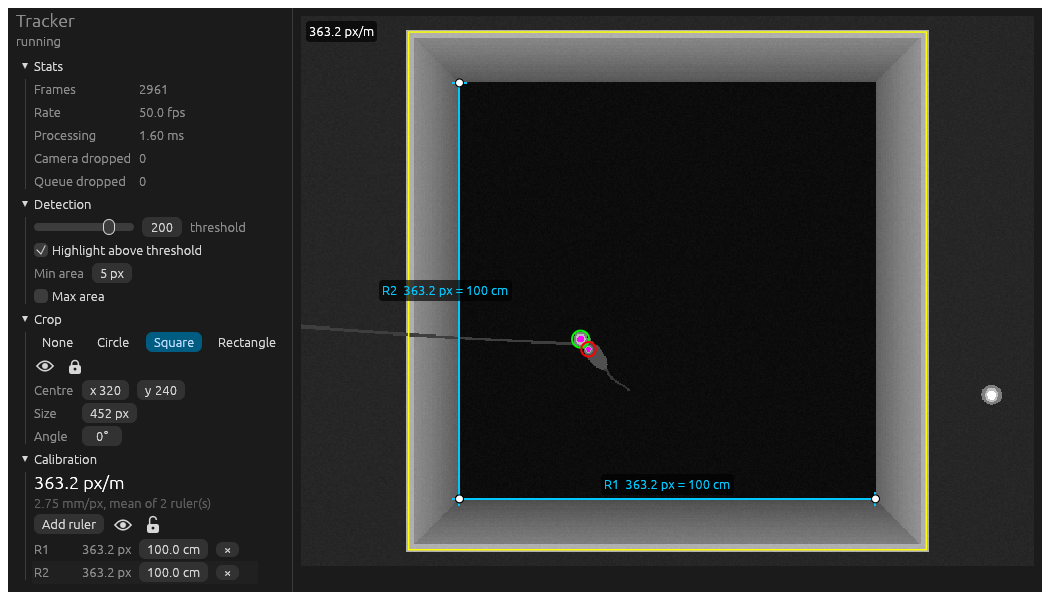
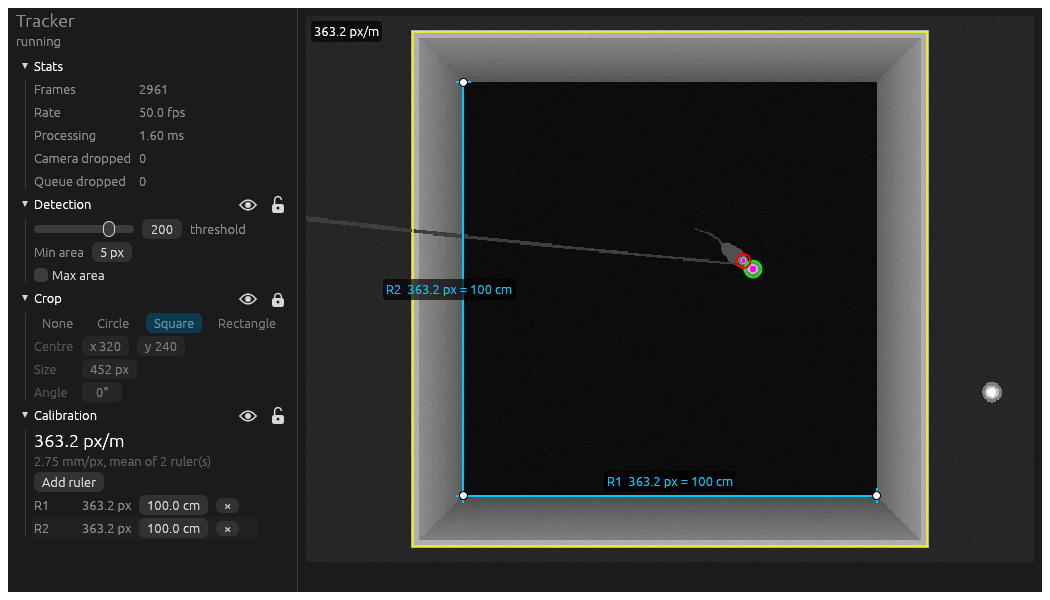
Eye and padlock in section headers; detection overlay; lock disables controls
- Detection, Crop and Calibration headers each carry eye/padlock toggles
- Locking also disables that section's panel controls (the px/m readout
  stays prominent)
- Detection eye replaces the highlight checkbox: hidden means no threshold
  highlighting and no region circles
- Snapshot for the detection-hidden view; README and screenshot updated

diff --git a/tracker/src/gui/mod.rs b/tracker/src/gui/mod.rs
@@ -73,13 +73,12 @@ struct TrackerApp {
     /// Local copy, written back to `shared` whenever it changes.
     state: TrackerState,
     video: view::VideoView,
-    highlight_threshold: bool,
 }
 
 impl TrackerApp {
     fn new(shared: Arc<Shared>) -> Self {
         let state = shared.state.lock().unwrap().clone();
-        TrackerApp { shared, state, video: Default::default(), highlight_threshold: true }
+        TrackerApp { shared, state, video: Default::default() }
     }
 
     fn image_size(&self) -> [f32; 2] {
@@ -91,10 +90,41 @@ impl TrackerApp {
         ui.label(self.shared.status.lock().unwrap().as_str());
         ui.add_space(4.0);
 
-        egui::CollapsingHeader::new("Stats").default_open(true).show(ui, |ui| self.stats(ui));
-        egui::CollapsingHeader::new("Detection").default_open(true).show(ui, |ui| self.detection(ui));
-        egui::CollapsingHeader::new("Crop").default_open(true).show(ui, |ui| self.crop(ui));
-        egui::CollapsingHeader::new("Calibration").default_open(true).show(ui, |ui| self.calibration(ui));
+        egui::CollapsingHeader::new(RichText::new("Stats").strong()).default_open(true).show(ui, |ui| self.stats(ui));
+
+        let mut overlay = self.state.detection_overlay;
+        section(
+            ui,
+            "Detection",
+            &mut overlay,
+            "Highlight pixels above the threshold and circle the detected regions",
+            "Lock the detection settings",
+            |ui| self.detection(ui),
+        );
+        self.state.detection_overlay = overlay;
+
+        let mut overlay = self.state.crop_overlay;
+        section(
+            ui,
+            "Crop",
+            &mut overlay,
+            "Show the whole frame with the crop outline, or hide it and mask out everything outside the crop",
+            "Lock the crop. Unlocked: drag inside to move, drag the square handles to resize, and the round \
+             handle on the stalk to rotate (hold shift to snap to 15°)",
+            |ui| self.crop(ui),
+        );
+        self.state.crop_overlay = overlay;
+
+        let mut overlay = self.state.calibration.overlay;
+        section(
+            ui,
+            "Calibration",
+            &mut overlay,
+            "Show or hide the rulers (they still count towards px/m)",
+            "Lock the rulers so they can't be dragged or edited",
+            |ui| self.calibration(ui),
+        );
+        self.state.calibration.overlay = overlay;
     }
 
     fn stats(&mut self, ui: &mut egui::Ui) {
@@ -115,9 +145,11 @@ impl TrackerApp {
     }
 
     fn detection(&mut self, ui: &mut egui::Ui) {
+        if self.state.detection_overlay.locked {
+            ui.disable();
+        }
         let p = &mut self.state.pipeline;
         ui.add(egui::Slider::new(&mut p.threshold, 0..=255).text("threshold"));
-        ui.checkbox(&mut self.highlight_threshold, "Highlight above threshold");
         ui.horizontal(|ui| {
             ui.label("Min area");
             ui.add(egui::DragValue::new(&mut p.min_area).range(0..=100_000).suffix(" px"));
@@ -136,6 +168,9 @@ impl TrackerApp {
     fn crop(&mut self, ui: &mut egui::Ui) {
         let image = self.image_size();
         let TrackerState { pipeline: PipelineConfig { crop, .. }, crop_overlay: overlay, .. } = &mut self.state;
+        if overlay.locked {
+            ui.disable();
+        }
         let current = CropKind::of(crop);
         ui.horizontal_wrapped(|ui| {
             for (kind, name) in CropKind::ALL {
@@ -144,19 +179,6 @@ impl TrackerApp {
                     *overlay = Overlay { visible: true, locked: false };
                 }
             }
-        });
-        if *crop == Crop::None {
-            return;
-        }
-        ui.horizontal(|ui| {
-            icons::toggle(ui, &mut overlay.visible, icons::eye, "Show the whole frame and the crop outline, or hide them and mask out everything outside the crop");
-            icons::toggle(
-                ui,
-                &mut overlay.locked,
-                icons::padlock,
-                "Lock the crop so it can't be dragged. Unlocked: drag inside to move, drag the square handles to \
-                 resize, and the round handle on the stalk to rotate (hold shift to snap to 15°)",
-            );
         });
 
         egui::Grid::new("crop").num_columns(2).show(ui, |ui| {
@@ -201,15 +223,15 @@ impl TrackerApp {
                 ui.weak("Not calibrated: add a ruler, drag its ends onto something of known size and enter its length.");
             }
         }
-        ui.horizontal(|ui| {
-            if ui.button("Add ruler").clicked() {
-                let y = image[1] / 2.0 + 20.0 * (cal.rulers.len() % 8) as f32;
-                cal.rulers.push(Ruler { a: [image[0] / 3.0, y], b: [image[0] * 2.0 / 3.0, y], length_cm: 0.0 });
-                cal.overlay = Overlay { visible: true, locked: false };
-            }
-            icons::toggle(ui, &mut cal.overlay.visible, icons::eye, "Show or hide the rulers (they still count towards px/m)");
-            icons::toggle(ui, &mut cal.overlay.locked, icons::padlock, "Lock the rulers so they can't be dragged");
-        });
+        // Only the editing controls below are disabled when locked; the readout above stays prominent.
+        if cal.overlay.locked {
+            ui.disable();
+        }
+        if ui.button("Add ruler").clicked() {
+            let y = image[1] / 2.0 + 20.0 * (cal.rulers.len() % 8) as f32;
+            cal.rulers.push(Ruler { a: [image[0] / 3.0, y], b: [image[0] * 2.0 / 3.0, y], length_cm: 0.0 });
+            cal.overlay.visible = true;
+        }
 
         let mut remove = None;
         egui::Grid::new("rulers").num_columns(4).striped(true).show(ui, |ui| {
@@ -228,6 +250,28 @@ impl TrackerApp {
             cal.rulers.remove(i);
         }
     }
+}
+
+/// A collapsible section whose header carries eye (overlay visibility) and padlock (lock) toggles.
+/// Locking stops the overlay being dragged on the video; each section also disables its own controls.
+fn section(
+    ui: &mut egui::Ui,
+    title: &str,
+    overlay: &mut Overlay,
+    eye_tip: &str,
+    lock_tip: &str,
+    body: impl FnOnce(&mut egui::Ui),
+) {
+    let id = ui.make_persistent_id(title);
+    egui::collapsing_header::CollapsingState::load_with_default_open(ui.ctx(), id, true)
+        .show_header(ui, |ui| {
+            ui.label(RichText::new(title).strong());
+            ui.with_layout(egui::Layout::right_to_left(egui::Align::Center), |ui| {
+                icons::toggle(ui, &mut overlay.locked, icons::padlock, lock_tip);
+                icons::toggle(ui, &mut overlay.visible, icons::eye, eye_tip);
+            });
+        })
+        .body(body);
 }
 
 fn center_row(ui: &mut egui::Ui, center: &mut [f32; 2]) {
@@ -266,8 +310,7 @@ impl TrackerApp {
             egui::ScrollArea::vertical().show(ui, |ui| self.controls(ui));
         });
         let latest = self.shared.latest.lock().unwrap().clone();
-        let options = view::Options { highlight_threshold: self.highlight_threshold };
-        egui::CentralPanel::default().show(ui, |ui| self.video.show(ui, &mut self.state, latest.as_deref(), options));
+        egui::CentralPanel::default().show(ui, |ui| self.video.show(ui, &mut self.state, latest.as_deref()));
 
         if self.state != before {
             *self.shared.state.lock().unwrap() = self.state.clone();
@@ -310,6 +353,11 @@ mod tests {
     #[test]
     fn window_crop_editable_rulers_locked() {
         window_snapshot("tracker_window", |s| s.calibration.overlay.locked = true);
+    }
+
+    #[test]
+    fn window_detection_hidden() {
+        window_snapshot("tracker_window_detection_hidden", |s| s.detection_overlay.visible = false);
     }
 
     #[test]

diff --git a/tracker/src/gui/view.rs b/tracker/src/gui/view.rs
@@ -25,11 +25,6 @@ const ROTATE_STALK: f32 = 28.0;
 const MIN_SIZE: f32 = 4.0;
 const ROTATE_SNAP: f32 = 15.0 * PI / 180.0;
 
-#[derive(Clone, Copy)]
-pub struct Options {
-    pub highlight_threshold: bool,
-}
-
 #[derive(Clone, Copy, Debug, PartialEq)]
 enum Target {
     CropMove,
@@ -86,12 +81,12 @@ pub struct VideoView {
 }
 
 impl VideoView {
-    pub fn show(&mut self, ui: &mut egui::Ui, state: &mut TrackerState, view: Option<&View>, opts: Options) {
+    pub fn show(&mut self, ui: &mut egui::Ui, state: &mut TrackerState, view: Option<&View>) {
         let Some(view) = view else {
             ui.centered_and_justified(|ui| ui.label("No frames yet"));
             return;
         };
-        self.update_texture(ui.ctx(), view, state, opts.highlight_threshold);
+        self.update_texture(ui.ctx(), view, state);
         let Some(texture) = &self.texture else { return };
 
         // Fit the frame in the available space, preserving aspect ratio.
@@ -112,7 +107,8 @@ impl VideoView {
                 draw_ruler(&painter, xf, i, ruler, rulers.locked);
             }
         }
-        for (blob, colour) in view.blobs.iter().zip(BLOB_COLOURS) {
+        let blobs = if state.detection_overlay.visible { view.blobs.as_slice() } else { &[] };
+        for (blob, colour) in blobs.iter().zip(BLOB_COLOURS) {
             let r = (blob.area as f32 / PI).sqrt() * scale + 4.0;
             // Centroids are in pixel indices; +0.5 puts them at pixel centres on screen.
             painter.circle_stroke(xf.to_screen([blob.x + 0.5, blob.y + 0.5]), r, Stroke::new(2.0, colour));
@@ -124,8 +120,9 @@ impl VideoView {
 
     /// Inside the crop: the frame, with above-threshold pixels highlighted. Outside: the plain frame while the
     /// crop overlay is visible, masked to black when it's hidden.
-    fn update_texture(&mut self, ctx: &egui::Context, view: &View, state: &TrackerState, highlight: bool) {
+    fn update_texture(&mut self, ctx: &egui::Context, view: &View, state: &TrackerState) {
         let pipeline = &state.pipeline;
+        let highlight = state.detection_overlay.visible;
         let crop_visible = state.crop_overlay.visible;
         let key = TextureKey {
             frame: view.frame.id,

diff --git a/tracker/src/config.rs b/tracker/src/config.rs
@@ -18,6 +18,8 @@ pub struct Config {
 #[serde(default)]
 pub struct TrackerState {
     pub pipeline: PipelineConfig,
+    /// Visible: above-threshold pixels are highlighted and detected regions circled. Locked: settings can't be changed.
+    pub detection_overlay: Overlay,
     /// Hidden: the outside of the crop is masked out. Visible: the whole frame is shown with the crop outline.
     pub crop_overlay: Overlay,
     pub calibration: Calibration,

diff --git a/README.md b/README.md
@@ -24,14 +24,17 @@ plugin so existing analysis code keeps working.
 
 While acquisition runs, a tracker window shows the live video with:
 
-- **Detection**: brightness threshold (pixels above it can be highlighted), min/max region area.
+- **Detection**: brightness threshold and min/max region area. The eye highlights above-threshold pixels
+  and circles the two detected regions.
 - **Crop**: none, circle, square or rectangle. Drag to move, use the handles to resize, and use the stalk to
   rotate (shift snaps to 15°). The eye shows the whole frame with the crop outline, or hides it and masks
-  out everything outside the crop. The padlock stops it being dragged.
+  out everything outside the crop.
 - **Calibration**: rulers you drag onto things of known size and give a length in cm. The mean pixels per
-  metre is shown in the panel and over the video, even while the rulers are hidden (eye) or locked
-  (padlock).
+  metre is shown in the panel and over the video, even while the rulers are hidden.
 - Stats: frame rate, processing time, dropped frames.
+
+The eye and padlock sit in each section's header. The padlock locks that section's controls and stops its
+overlay being dragged on the video.
 
 These settings are saved with the Open Ephys signal chain.
 
